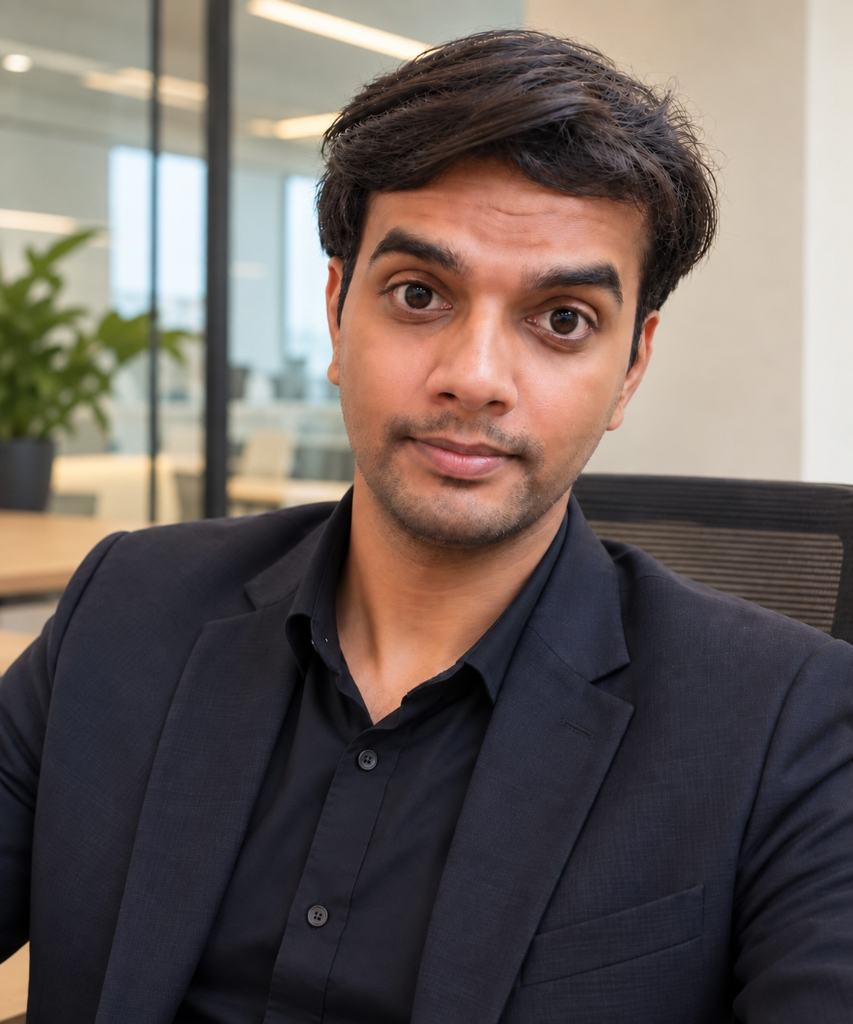
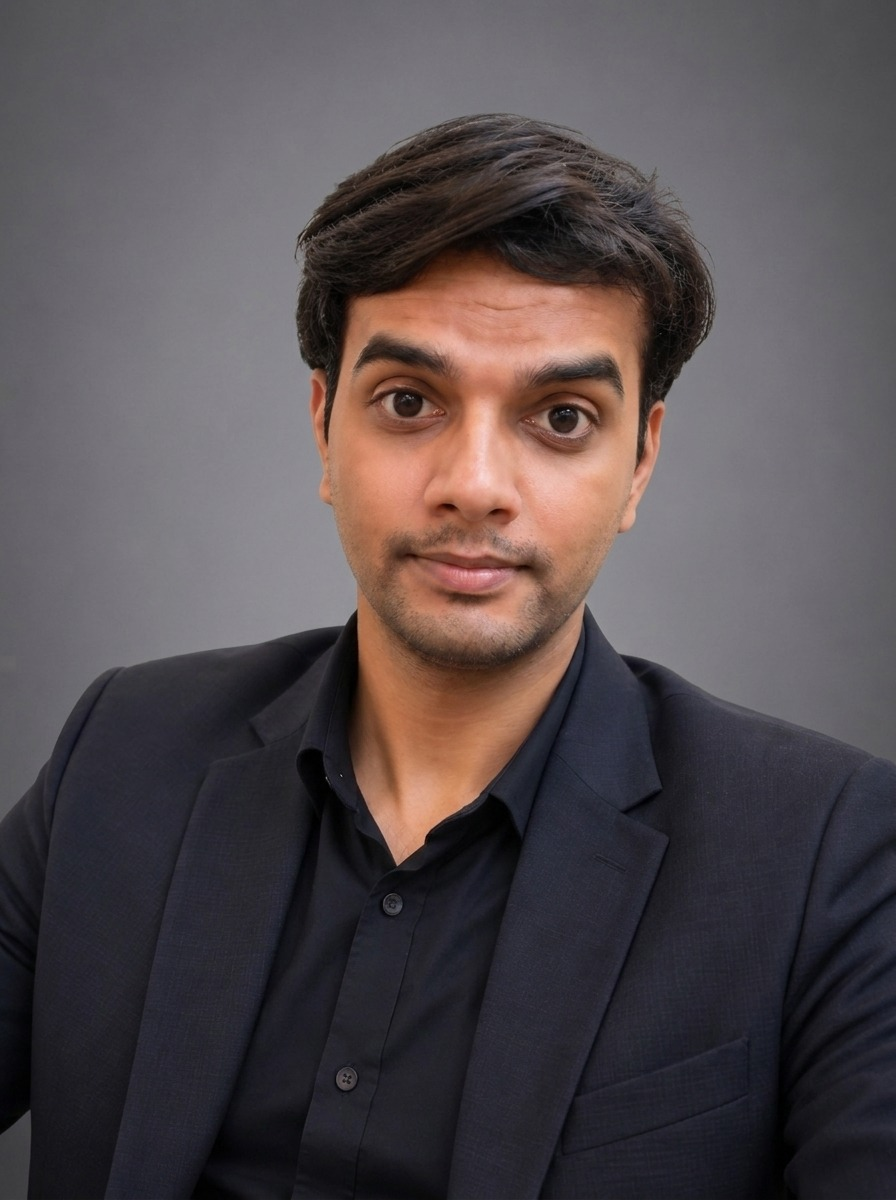
updated our team section

diff --git a/src/app/about/page.tsx b/src/app/about/page.tsx
@@ -117,7 +117,7 @@ const HOW_WE_WORK_STEPS = [
   },
 ];
 
-// Meet Our Team (Kashish excluded; 5 members in balanced responsive layout)
+// Meet Our Team
 const ENGINEERING_TEAM = [
   {
     name: "Ankit",
@@ -143,6 +143,16 @@ const ENGINEERING_TEAM = [
     name: "Sadiya Ansari",
     role: "Growth & Editing Specialist",
     image: "/team/team-6.jpg",
+  },
+  {
+    name: "Tanya Gupta",
+    role: "Marketing Specialist",
+    image: "/team/tanya-gupta.webp",
+  },
+  {
+    name: "Aditya Kumar",
+    role: "Data Analyst",
+    image: "/team/aditya-kumar.webp",
   },
 ];
 
@@ -675,7 +685,7 @@ export default function AboutPage() {
                   <img
                     src={member.image}
                     alt={member.name}
-                    className="w-full h-full object-cover object-top group-hover:scale-105 transition-transform duration-500 ease-out"
+                    className={`w-full h-full object-cover ${(member as any).imagePosition || "object-top"} group-hover:scale-105 transition-transform duration-500 ease-out`}
                   />
                 </div>
 
